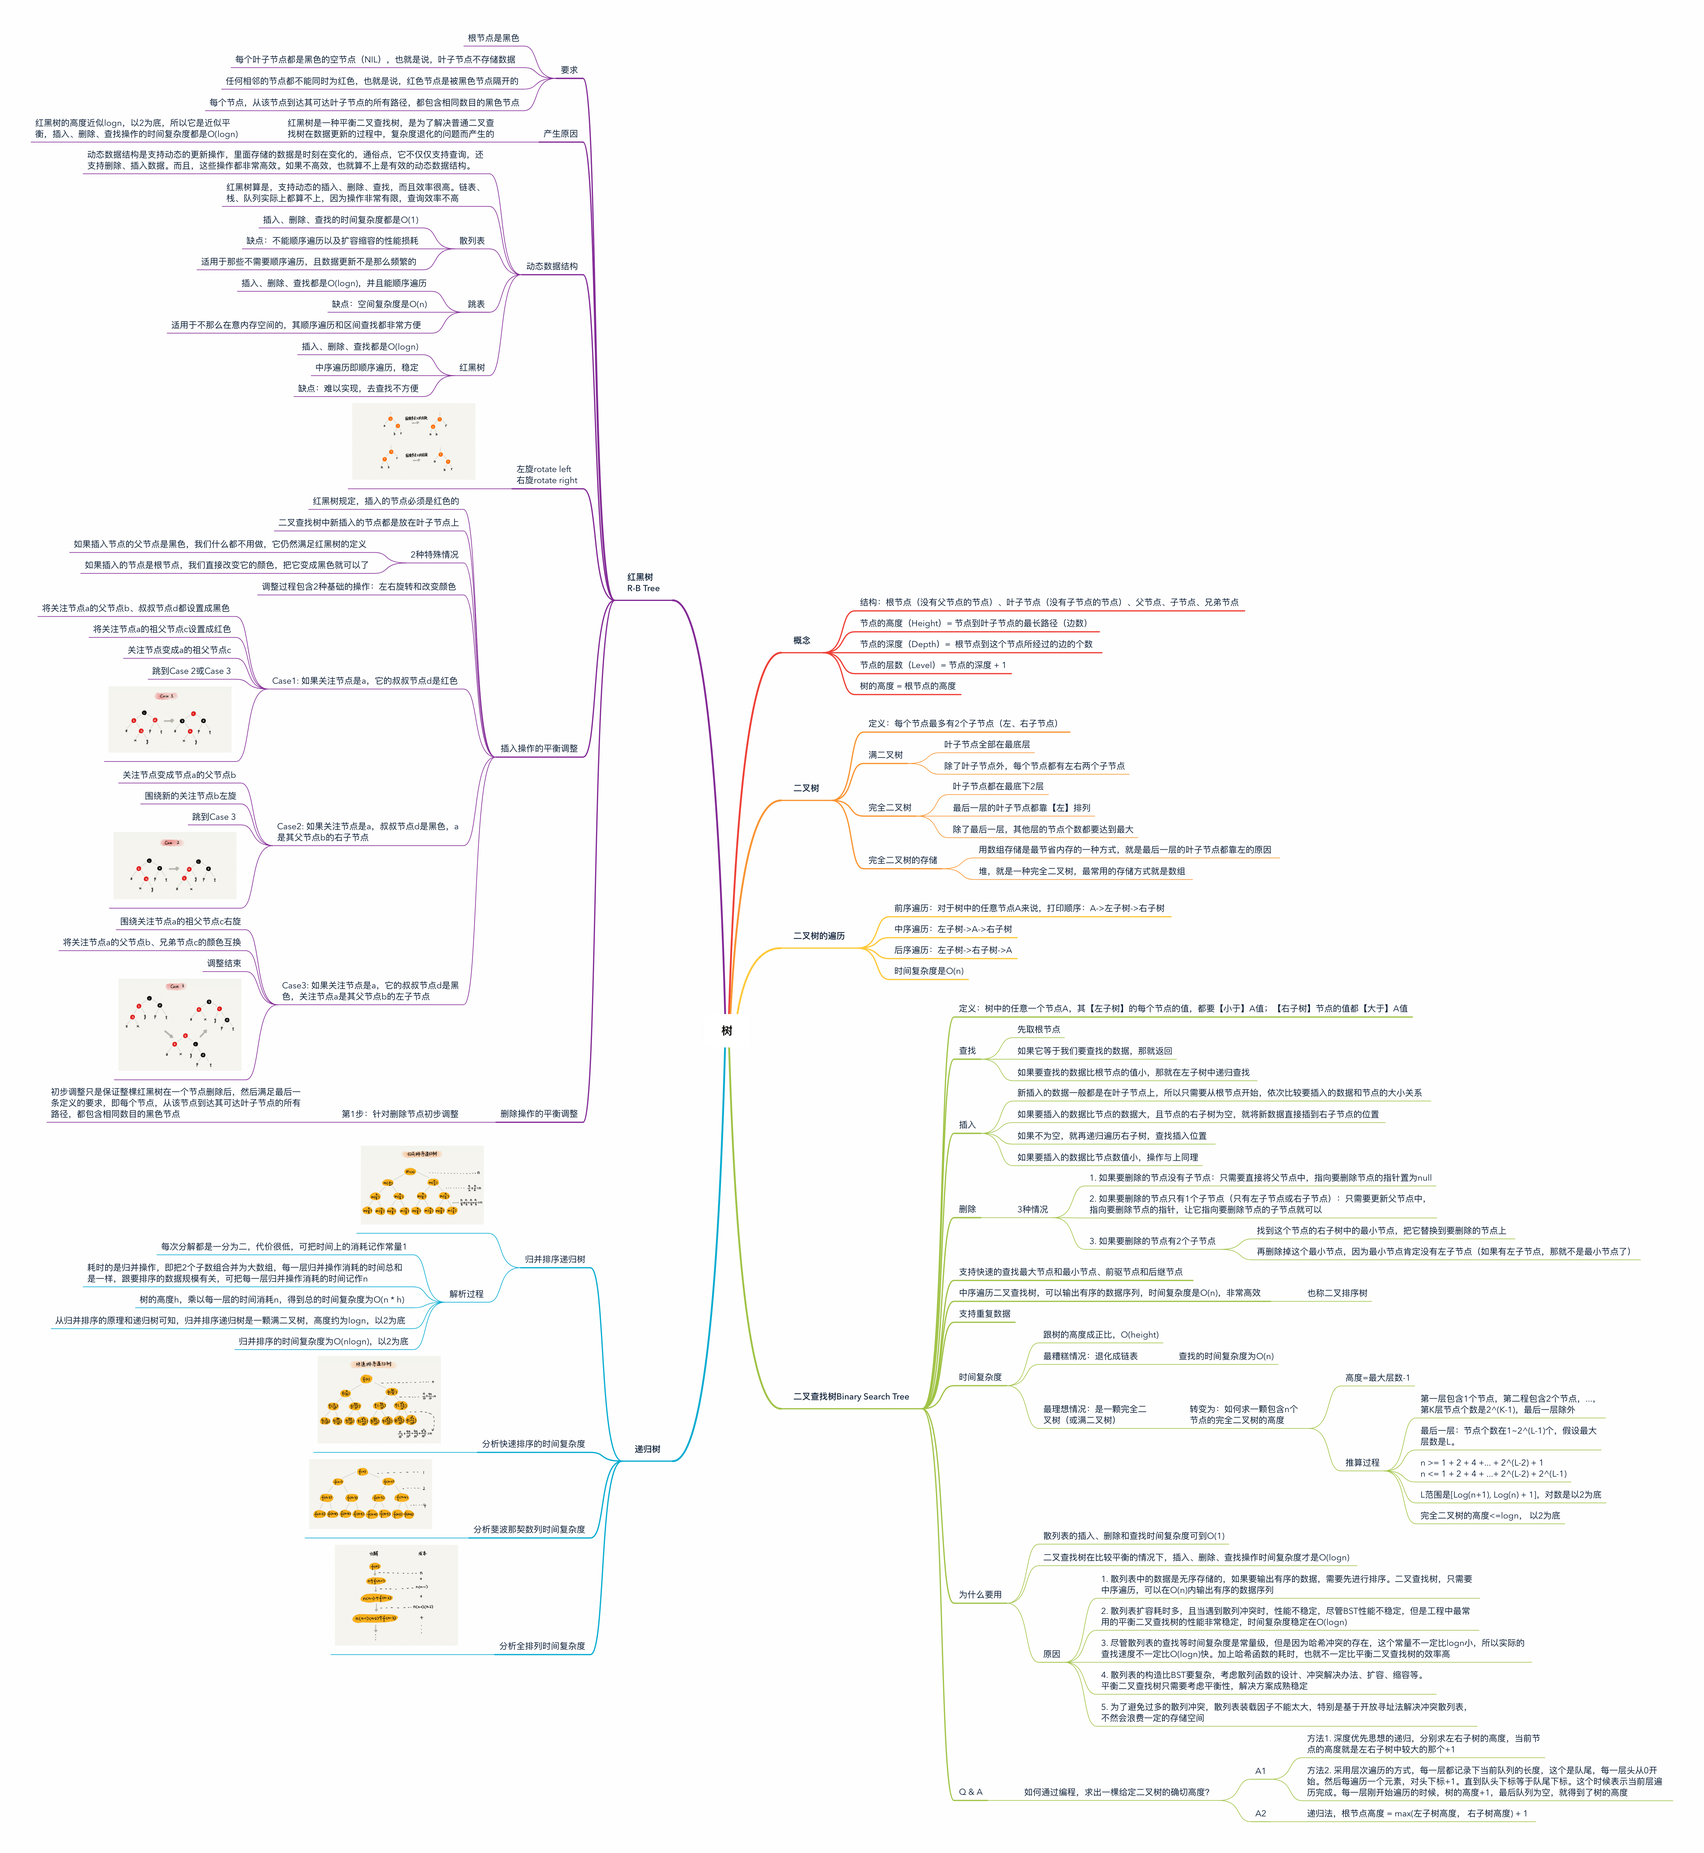
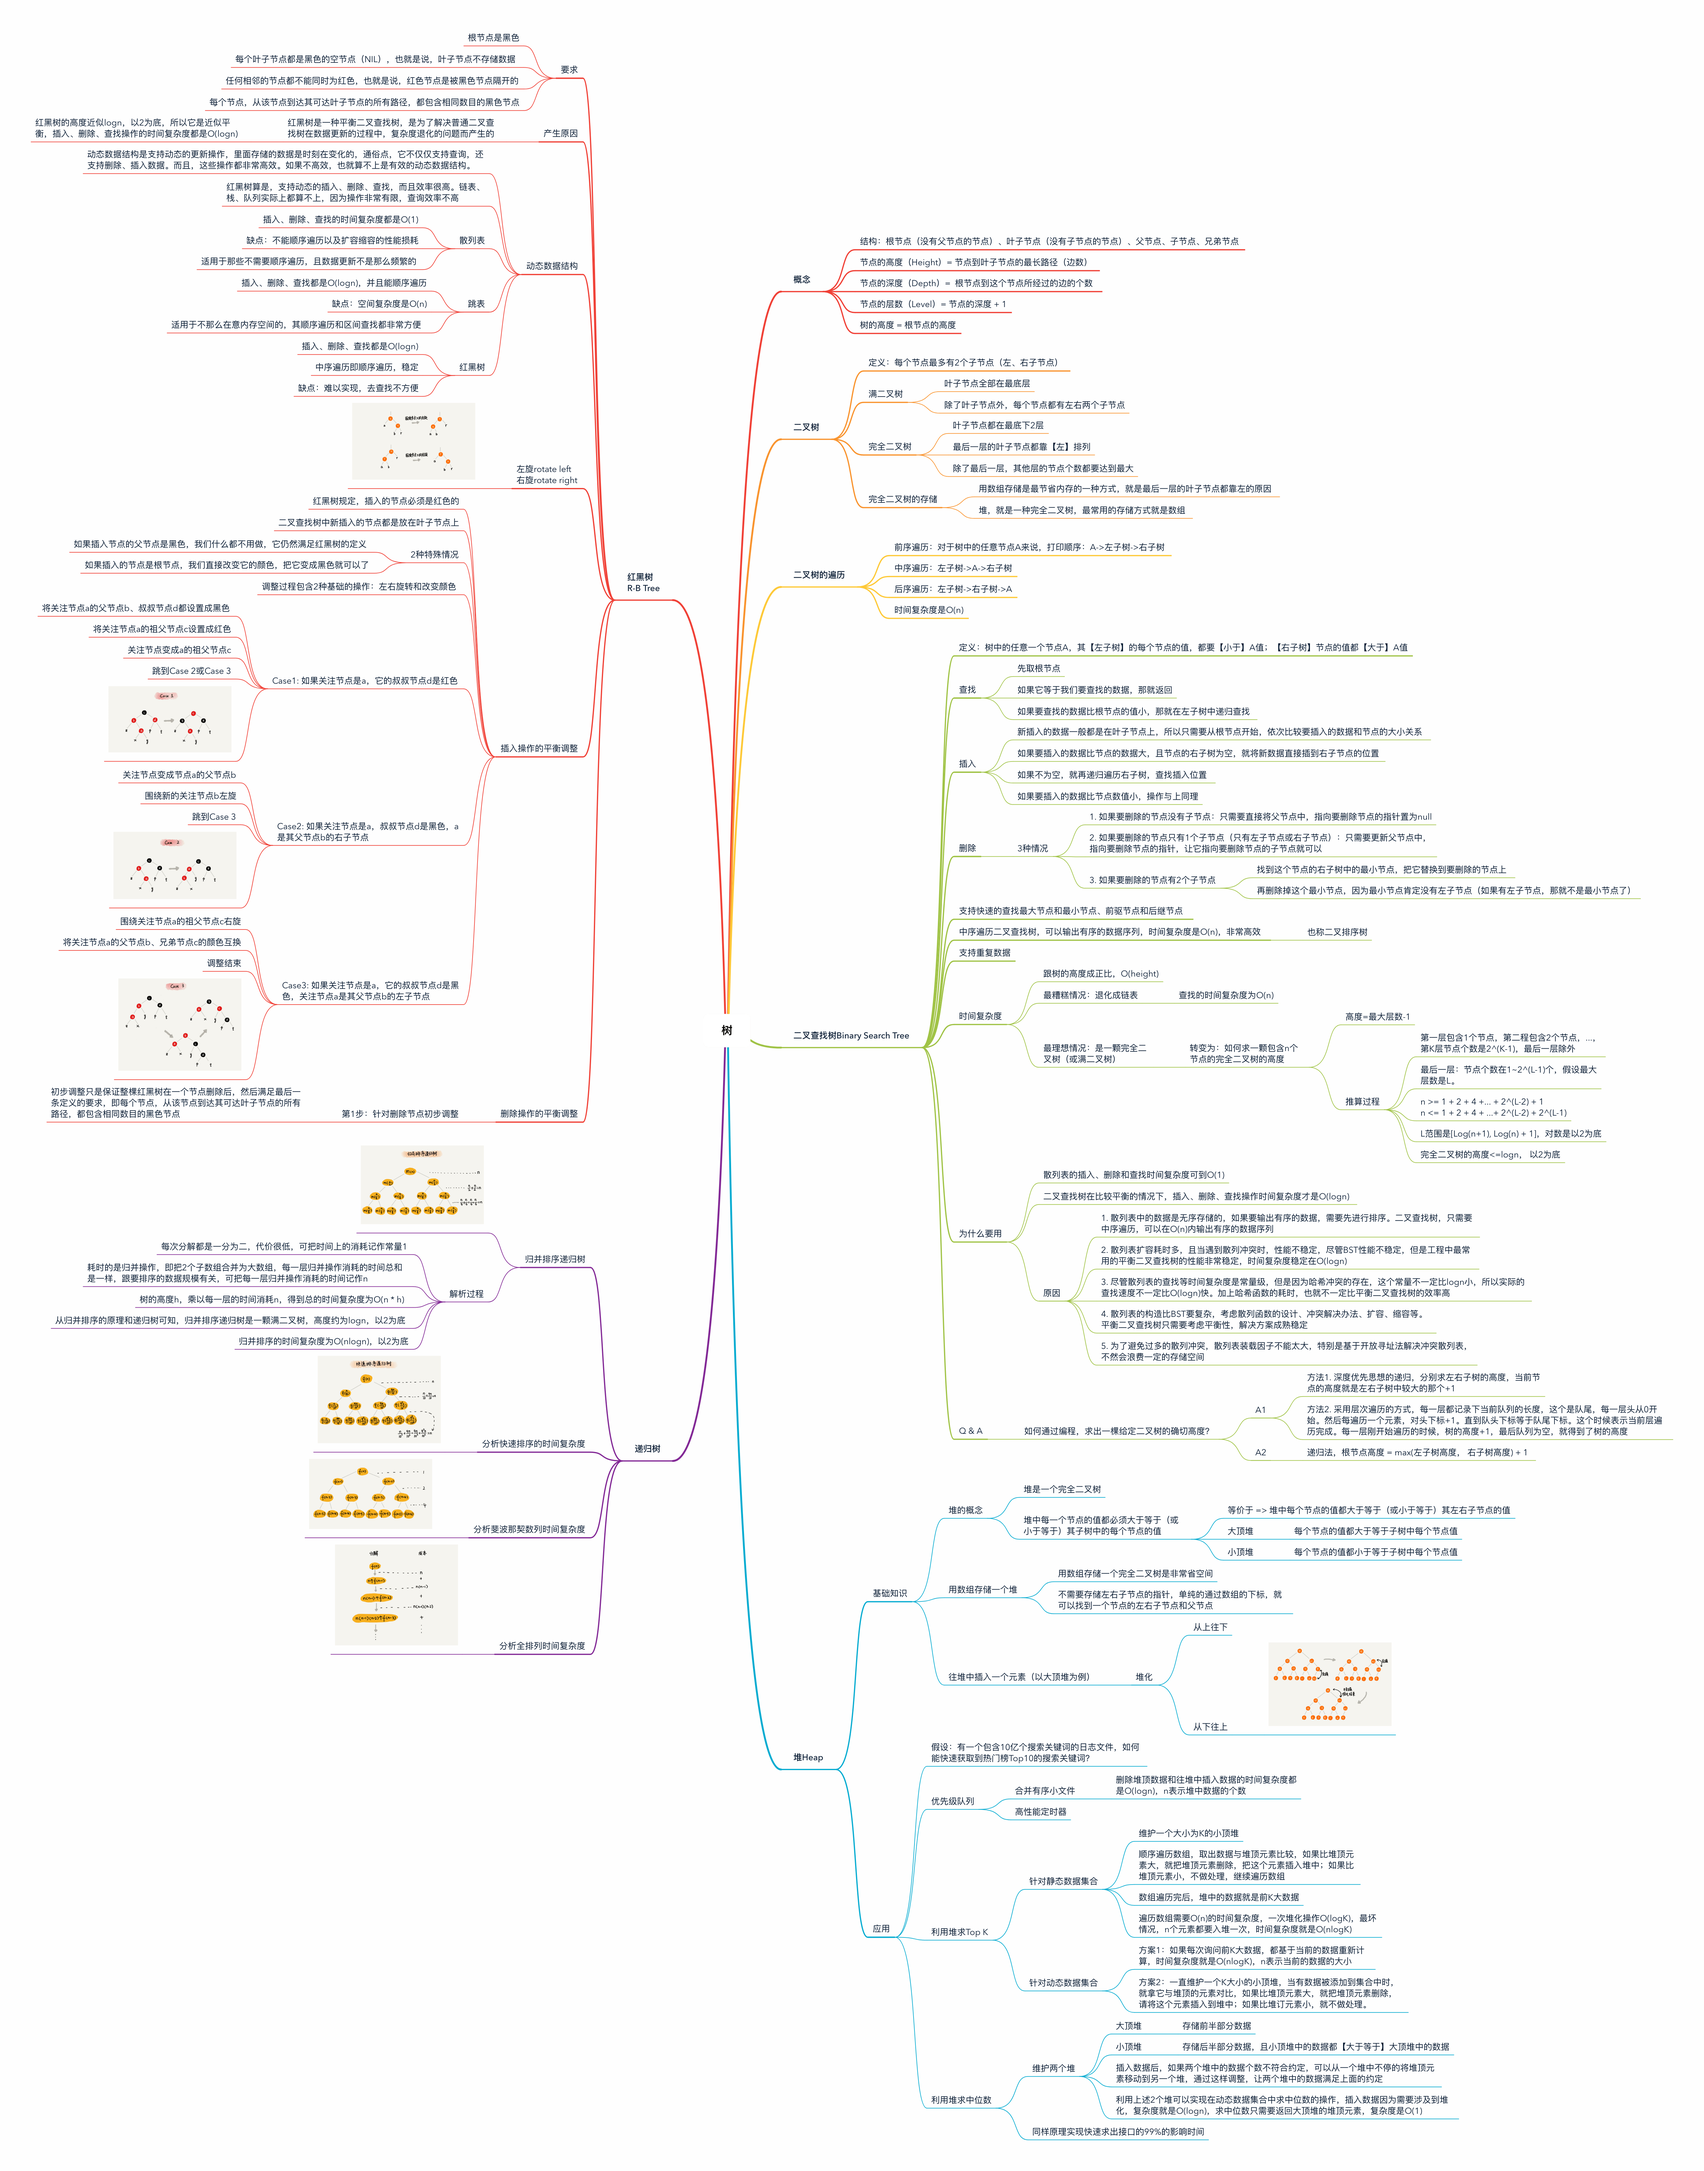
feat: init 堆Heap及应用场景

diff --git a/Notes/二叉树.md b/Notes/二叉树.md
@@ -1,3 +1,37 @@
-# 二叉树
+# 二叉树、红黑树、堆
 
-![](/MindMap/树.png)
+## [思维导图](/Notes/二叉树思维导图)
+
+## 代码段
+
+1. 往堆里插入一个元素，以大顶堆、堆化（从上往下）为例
+
+```java
+  public class Heap {
+    private int[] a; // 数组，从下标1开始存储数据
+    private int n; // 堆可以存储的最大数据个数
+    private int count; // 堆中已经存储的数据个数
+
+    public Heap(int capactiy) {
+      a = new int[capactiy + 1];
+      n = capacity;
+      count = 0;
+    }
+
+    public void insert(int data) {
+      if (count >= n) {
+        // 堆满了
+        return;
+      }
+
+      ++count;
+      a[count] = data;
+      int i = count;
+      while (i/2 > 0 && a[i] > a[i/2]) {
+        // 自下向上堆化
+        swap(a, i, i/2); // 交换下标为i 和 i/2的两个元素
+        i = i/2;
+      }
+    }
+  }
+```

diff --git a/Notes/二叉树思维导图.md b/Notes/二叉树思维导图.md
@@ -1,0 +1,3 @@
+# 二叉树、红黑树、堆
+
+![](/MindMap/树.png)
